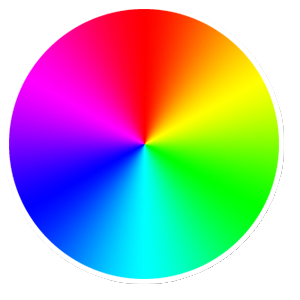
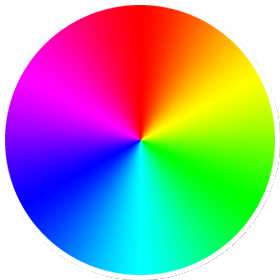
color picker bug fixes

diff --git a/src/app/views/draw-form/tools/color-picker/lgos-color-picker.component.ts b/src/app/views/draw-form/tools/color-picker/lgos-color-picker.component.ts
@@ -54,6 +54,7 @@ export class LgosColorPickerComponent {
   getColor(e){ //hovering
     let pixel = this.colorPaleteCtx.getImageData(e.offsetX, e.offsetY,1,1).data;
     this.pixelColor = this.parseColor(pixel).hex;
+    console.log(pixel, this.pixelColor);
   }
   parseColor(pixel){
     let dColor = pixel[2] + 256 * pixel[1] + 65536 * pixel[0],
@@ -72,24 +73,26 @@ export class LgosColorPickerComponent {
     this.colorBrighnessCtx.fillStyle = gradient;
     this.colorBrighnessCtx.fillRect(0,0,300,20);
   }
-  drawArc(x,y){
+  drawArc(x?,y?){
     let image = new Image();
     image.src='assets/img/colorwheel.png';
     image.onload = ()=>{
       this.colorPaleteCtx.drawImage(image,0,0, image.width, image.height);
-      this.colorPaleteCtx.beginPath();
-      this.colorPaleteCtx.arc(x,y,5,0,2*Math.PI);
-      this.colorPaleteCtx.stroke();
-      this.colorPaleteCtx.closePath();
+      if(x && y){
+        this.colorPaleteCtx.beginPath();
+        this.colorPaleteCtx.arc(x,y,5,0,2*Math.PI);
+        this.colorPaleteCtx.stroke();
+        this.colorPaleteCtx.closePath();
+      }
     }
   }
-  setColor(data, e){ // click on colorPallete
-    if(e){
-      this.colorPaleteCtx.clearRect(0,0,300,300);
+  setColor(color, e){ // click on colorPallete
+    this.colorPaleteCtx.clearRect(0,0,300,300);
+    if(e)
       this.drawArc(e.offsetX, e.offsetY);
-    }
-    this.pickedColor = data ? data : this.pixelColor;
-    this.palleteColor = this.pixelColor;
+    else
+      this.drawArc();
+    this.palleteColor = this.pickedColor = color ? color : this.pixelColor;
     this.setBrightnessPallete(this.pickedColor);
     this.saveColor();
   }
@@ -105,6 +108,9 @@ export class LgosColorPickerComponent {
     this.colorBrighnessCtx.arc(e.offsetX,10,7,0,2*Math.PI);
     this.colorBrighnessCtx.stroke();
     this.colorBrighnessCtx.closePath();
+  }
+  addToPreset(){
+    this.presetColors.push(this.pickedColor);
   }
 
   private saveColor(){

diff --git a/src/app/views/draw-form/tools/color-picker/lgos-color-picker.component.html b/src/app/views/draw-form/tools/color-picker/lgos-color-picker.component.html
@@ -11,7 +11,7 @@
             </ul>
         </div>
         <div class="colorpicker">
-            <div class="canvasWrap"><canvas #colorPalete (mousemove)="getColor($event)" (click)="setColor(null,$event)" var="1" width="300" height="300"></canvas></div>
+            <div class="canvasWrap"><canvas #colorPalete (mousemove)="getColor($event)" (click)="setColor(null,$event)" var="1" width="280" height="280"></canvas></div>
             <div class="colorBrightness">
                 <canvas #colorBrightness (click)="setColorBrightness($event)" var="1" width="300" height="20"></canvas>
             </div>
@@ -23,7 +23,7 @@
                     </button>
                 </mat-form-field>
                 <br>
-                <button mat-raised-button color="primary">Primary</button>
+                <button mat-raised-button color="primary" (click)="addToPreset();">Add To Preset</button>
             </div>
         </div>
     </mat-card-content>

diff --git a/src/app/views/draw-form/tools/color-picker/lgos-color-picker.component.css b/src/app/views/draw-form/tools/color-picker/lgos-color-picker.component.css
@@ -21,8 +21,14 @@
 
 .canvasWrap {
     background: url('../../../../../assets/img/colorwheel.png') no-repeat center;
-    width: 300px;
-    height: 300px;
+    width: 280px;
+    height: 280px;
+    margin: 10px;
+}
+
+.canvasWrap canvas {
+    border: 1px solid #ccc;
+    border-radius: 50%;
 }
 
 canvas {
